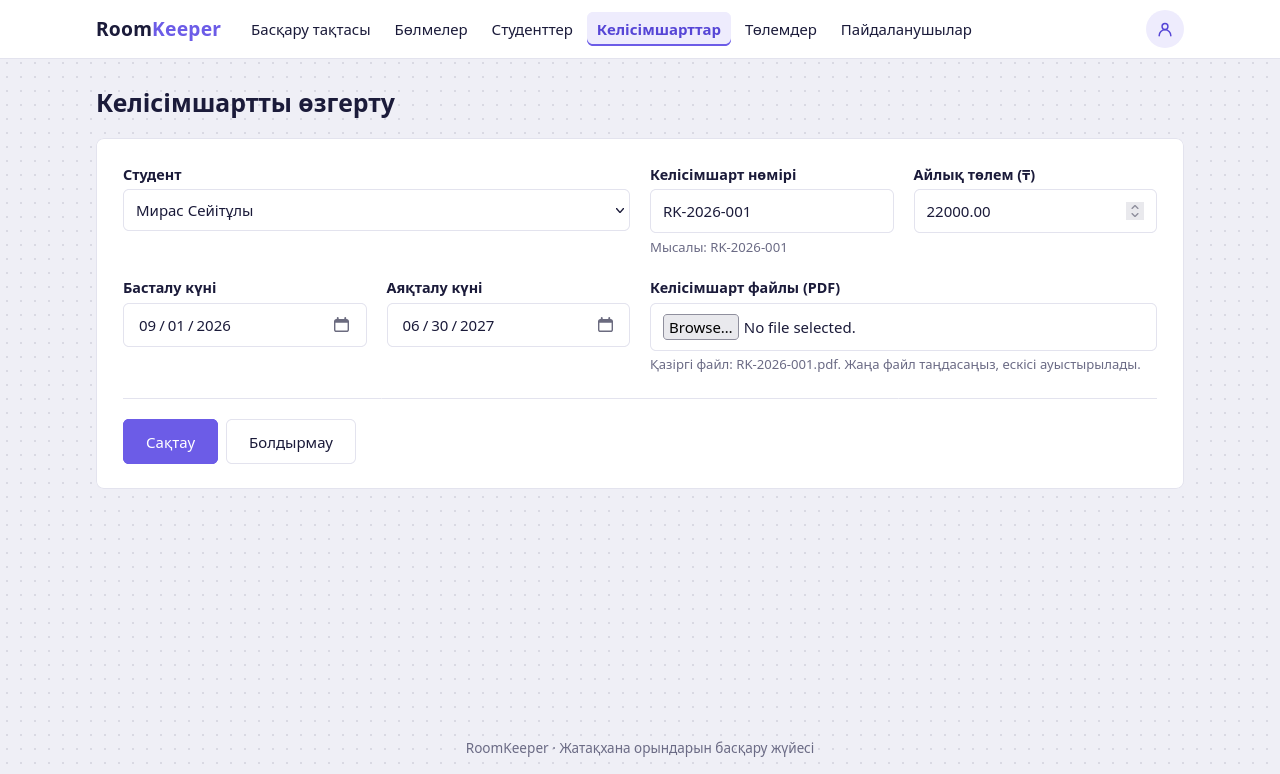
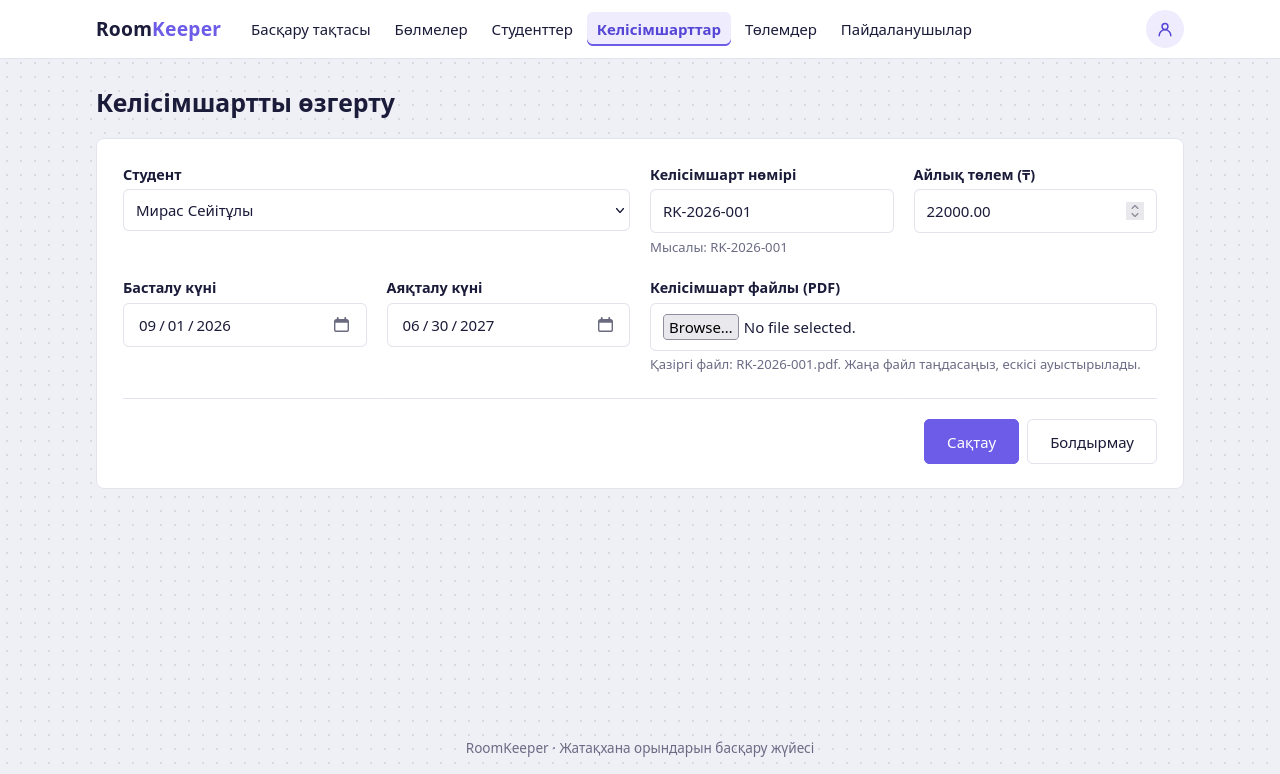
Some Fix And Changes

Changed region(s): [[0.7188, 0.5271, 0.9062, 0.6202], [0.0938, 0.5271, 0.2812, 0.6202]]

diff --git a/server/app/static/css/style.css b/server/app/static/css/style.css
@@ -184,7 +184,7 @@ form.inline { display: inline; }
 .filters select,
 .filters .btn { padding: 10px 12px; }
 .filters .btn { padding-inline: 18px; }
-.card-form .form-actions { margin-top: 10px; padding-top: 20px; border-top: 1px solid var(--border); }
+.card-form .form-actions { justify-content: flex-end; margin-top: 10px; padding-top: 20px; border-top: 1px solid var(--border); }
 .card-form .form-actions .btn { padding: 10px 22px; }
 @media (max-width: 900px) {
   .form-grid { grid-template-columns: repeat(2, minmax(0, 1fr)); }

diff --git a/server/app/templates/base.html b/server/app/templates/base.html
@@ -3,7 +3,7 @@
 <head>
   <meta charset="utf-8">
   <meta name="viewport" content="width=device-width, initial-scale=1">
-  <title>{% block title %}{% endblock %} — RoomKeeper</title>
+  <title>RoomKeeper</title>
   <link rel="stylesheet" href="{{ url_for('static', filename='css/style.css') }}">
 </head>
 {% import "_macros.html" as ui with context %}

diff --git a/server/app/templates/main/home.html b/server/app/templates/main/home.html
@@ -1,6 +1,5 @@
 {% extends "base.html" %}
 {% import "_macros.html" as ui with context %}
-{% block title %}Жатақхана орындарын басқару{% endblock %}
 {% block body_class %}page-home{% endblock %}
 
 {# The home page has no section menu: only the way in (or back to work). #}

diff --git a/server/app/templates/contracts/form.html b/server/app/templates/contracts/form.html
@@ -1,7 +1,6 @@
 {% extends "base.html" %}
 {% import "_macros.html" as ui with context %}
 {% set heading = 'Келісімшартты өзгерту' if contract else 'Жаңа келісімшарт' %}
-{% block title %}{{ heading }}{% endblock %}
 
 {% block content %}
 <div class="page-head">

diff --git a/server/app/templates/errors/layout.html b/server/app/templates/errors/layout.html
@@ -5,7 +5,7 @@
 <head>
   <meta charset="utf-8">
   <meta name="viewport" content="width=device-width, initial-scale=1">
-  <title>{{ code }} — RoomKeeper</title>
+  <title>RoomKeeper</title>
   <link rel="stylesheet" href="{{ url_for('static', filename='css/style.css') }}">
 </head>
 <body>

diff --git a/server/app/templates/students/form.html b/server/app/templates/students/form.html
@@ -1,7 +1,6 @@
 {% extends "base.html" %}
 {% import "_macros.html" as ui with context %}
 {% set heading = 'Студентті өзгерту' if student else 'Жаңа студент' %}
-{% block title %}{{ heading }}{% endblock %}
 
 {% block content %}
 <div class="page-head">

diff --git a/server/app/templates/payments/form.html b/server/app/templates/payments/form.html
@@ -1,7 +1,6 @@
 {% extends "base.html" %}
 {% import "_macros.html" as ui with context %}
 {% set heading = 'Төлемді өзгерту' if payment else 'Жаңа төлем' %}
-{% block title %}{{ heading }}{% endblock %}
 
 {% block content %}
 <div class="page-head">

diff --git a/server/app/templates/rooms/form.html b/server/app/templates/rooms/form.html
@@ -1,7 +1,6 @@
 {% extends "base.html" %}
 {% import "_macros.html" as ui with context %}
 {% set heading = 'Бөлмені өзгерту' if room else 'Жаңа бөлме' %}
-{% block title %}{{ heading }}{% endblock %}
 
 {% block content %}
 <div class="page-head">

diff --git a/server/app/templates/contracts/detail.html b/server/app/templates/contracts/detail.html
@@ -1,6 +1,5 @@
 {% extends "base.html" %}
 {% import "_macros.html" as ui with context %}
-{% block title %}Келісімшарт №{{ contract.number }}{% endblock %}
 
 {% block content %}
 <div class="page-head">

diff --git a/server/app/templates/auth/login.html b/server/app/templates/auth/login.html
@@ -1,6 +1,5 @@
 {% extends "auth/_layout.html" %}
 {% import "_macros.html" as ui with context %}
-{% block title %}Кіру{% endblock %}
 
 {% block heading %}
   <span>Қош келдіңіз</span>

diff --git a/server/app/templates/rooms/detail.html b/server/app/templates/rooms/detail.html
@@ -1,6 +1,5 @@
 {% extends "base.html" %}
 {% import "_macros.html" as ui with context %}
-{% block title %}Бөлме №{{ room.number }}{% endblock %}
 
 {% block content %}
 <div class="page-head">

diff --git a/server/app/templates/main/dashboard.html b/server/app/templates/main/dashboard.html
@@ -1,6 +1,5 @@
 {% extends "base.html" %}
 {% import "_macros.html" as ui with context %}
-{% block title %}Басқару тақтасы{% endblock %}
 
 {% block content %}
 <div class="page-head">
